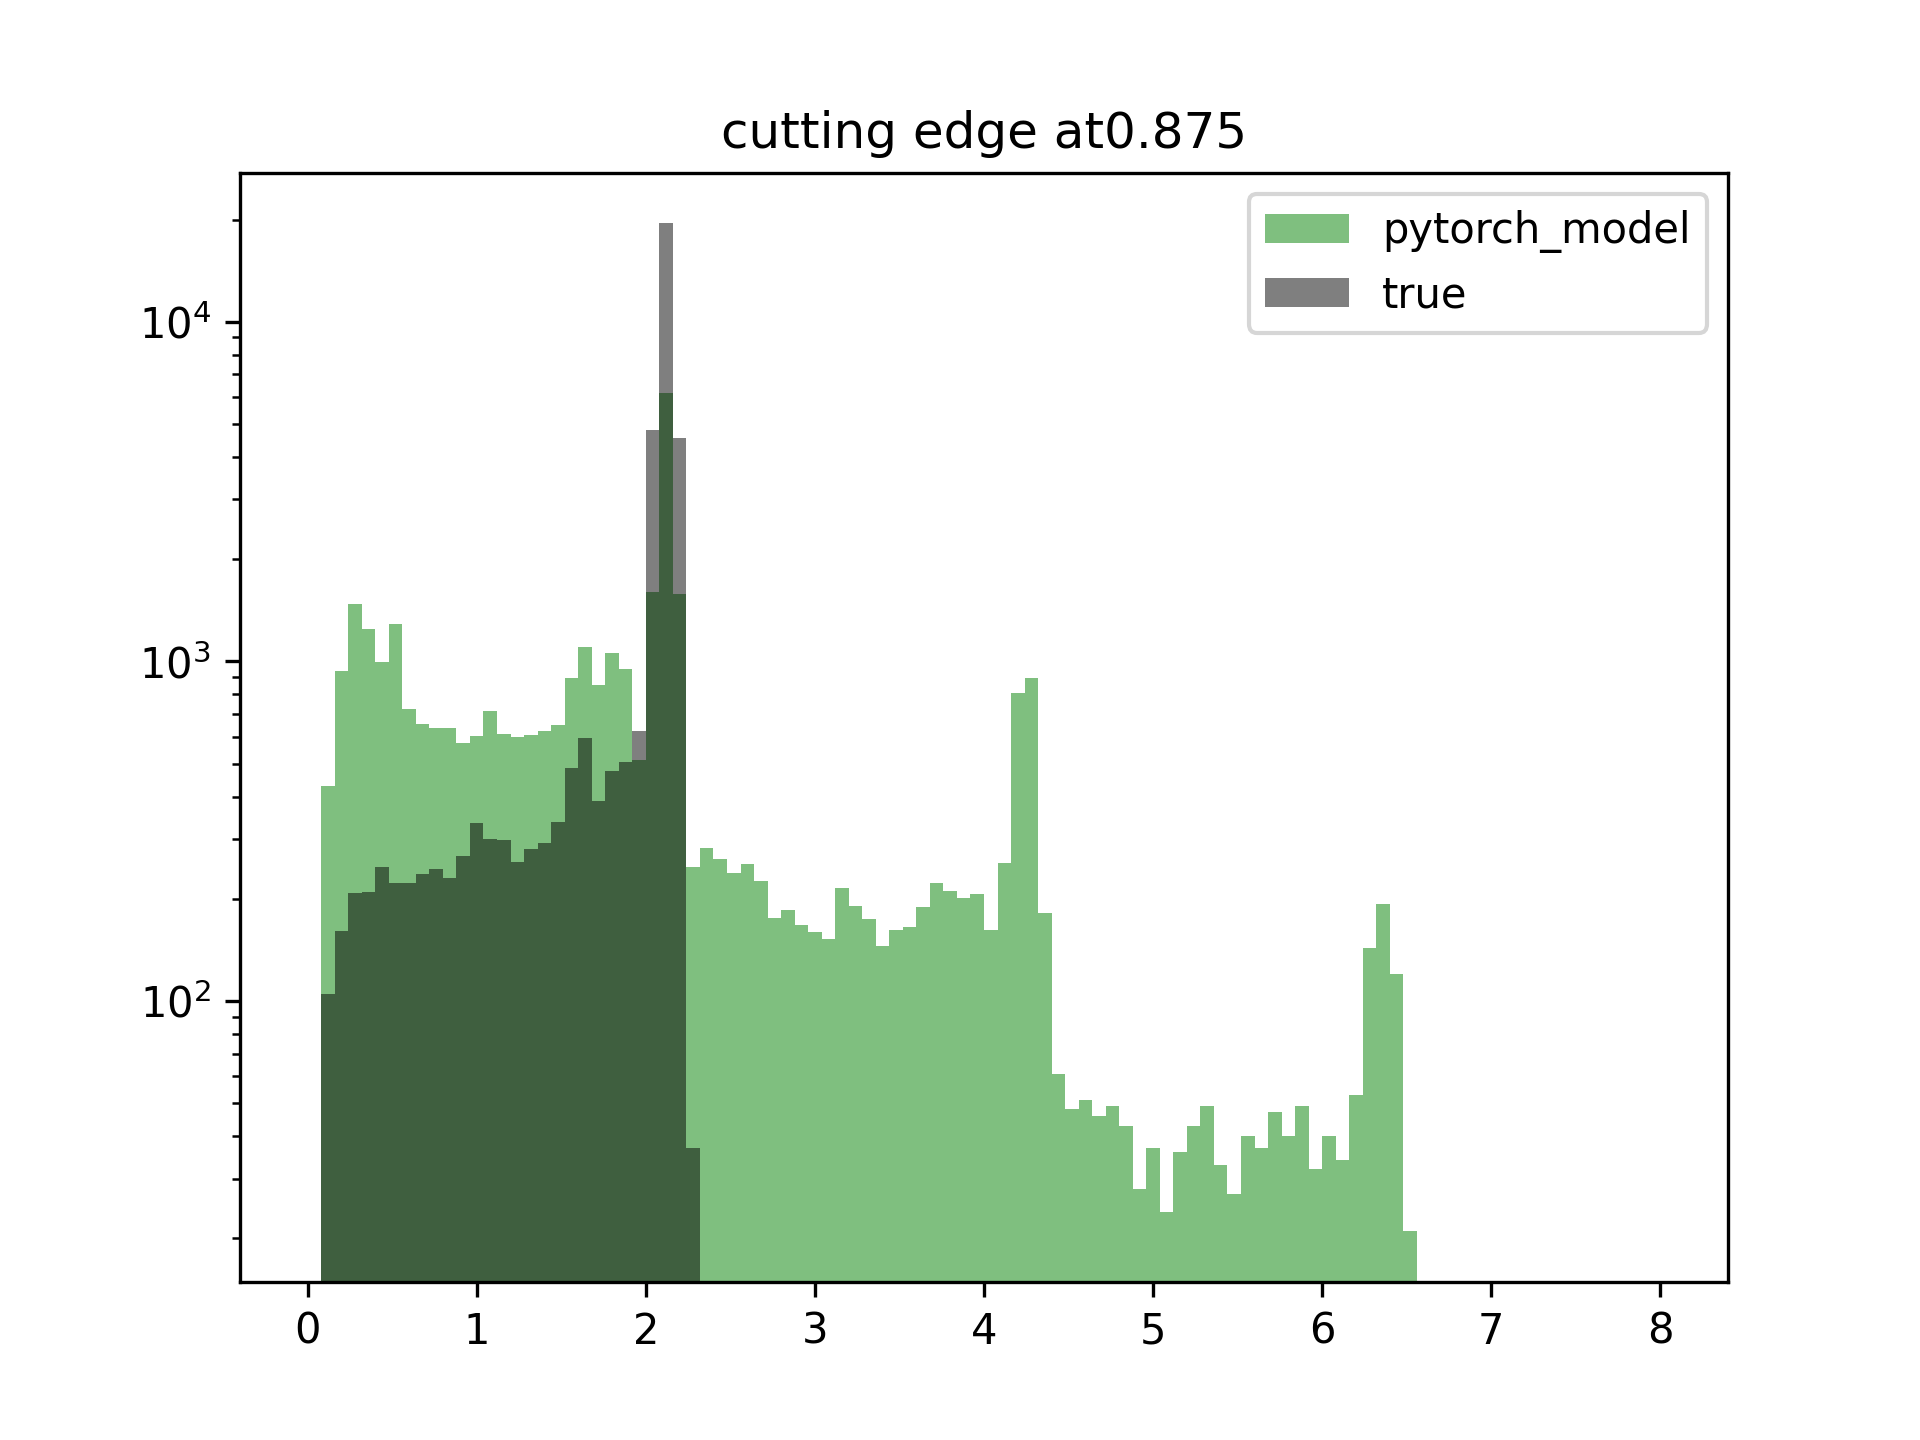
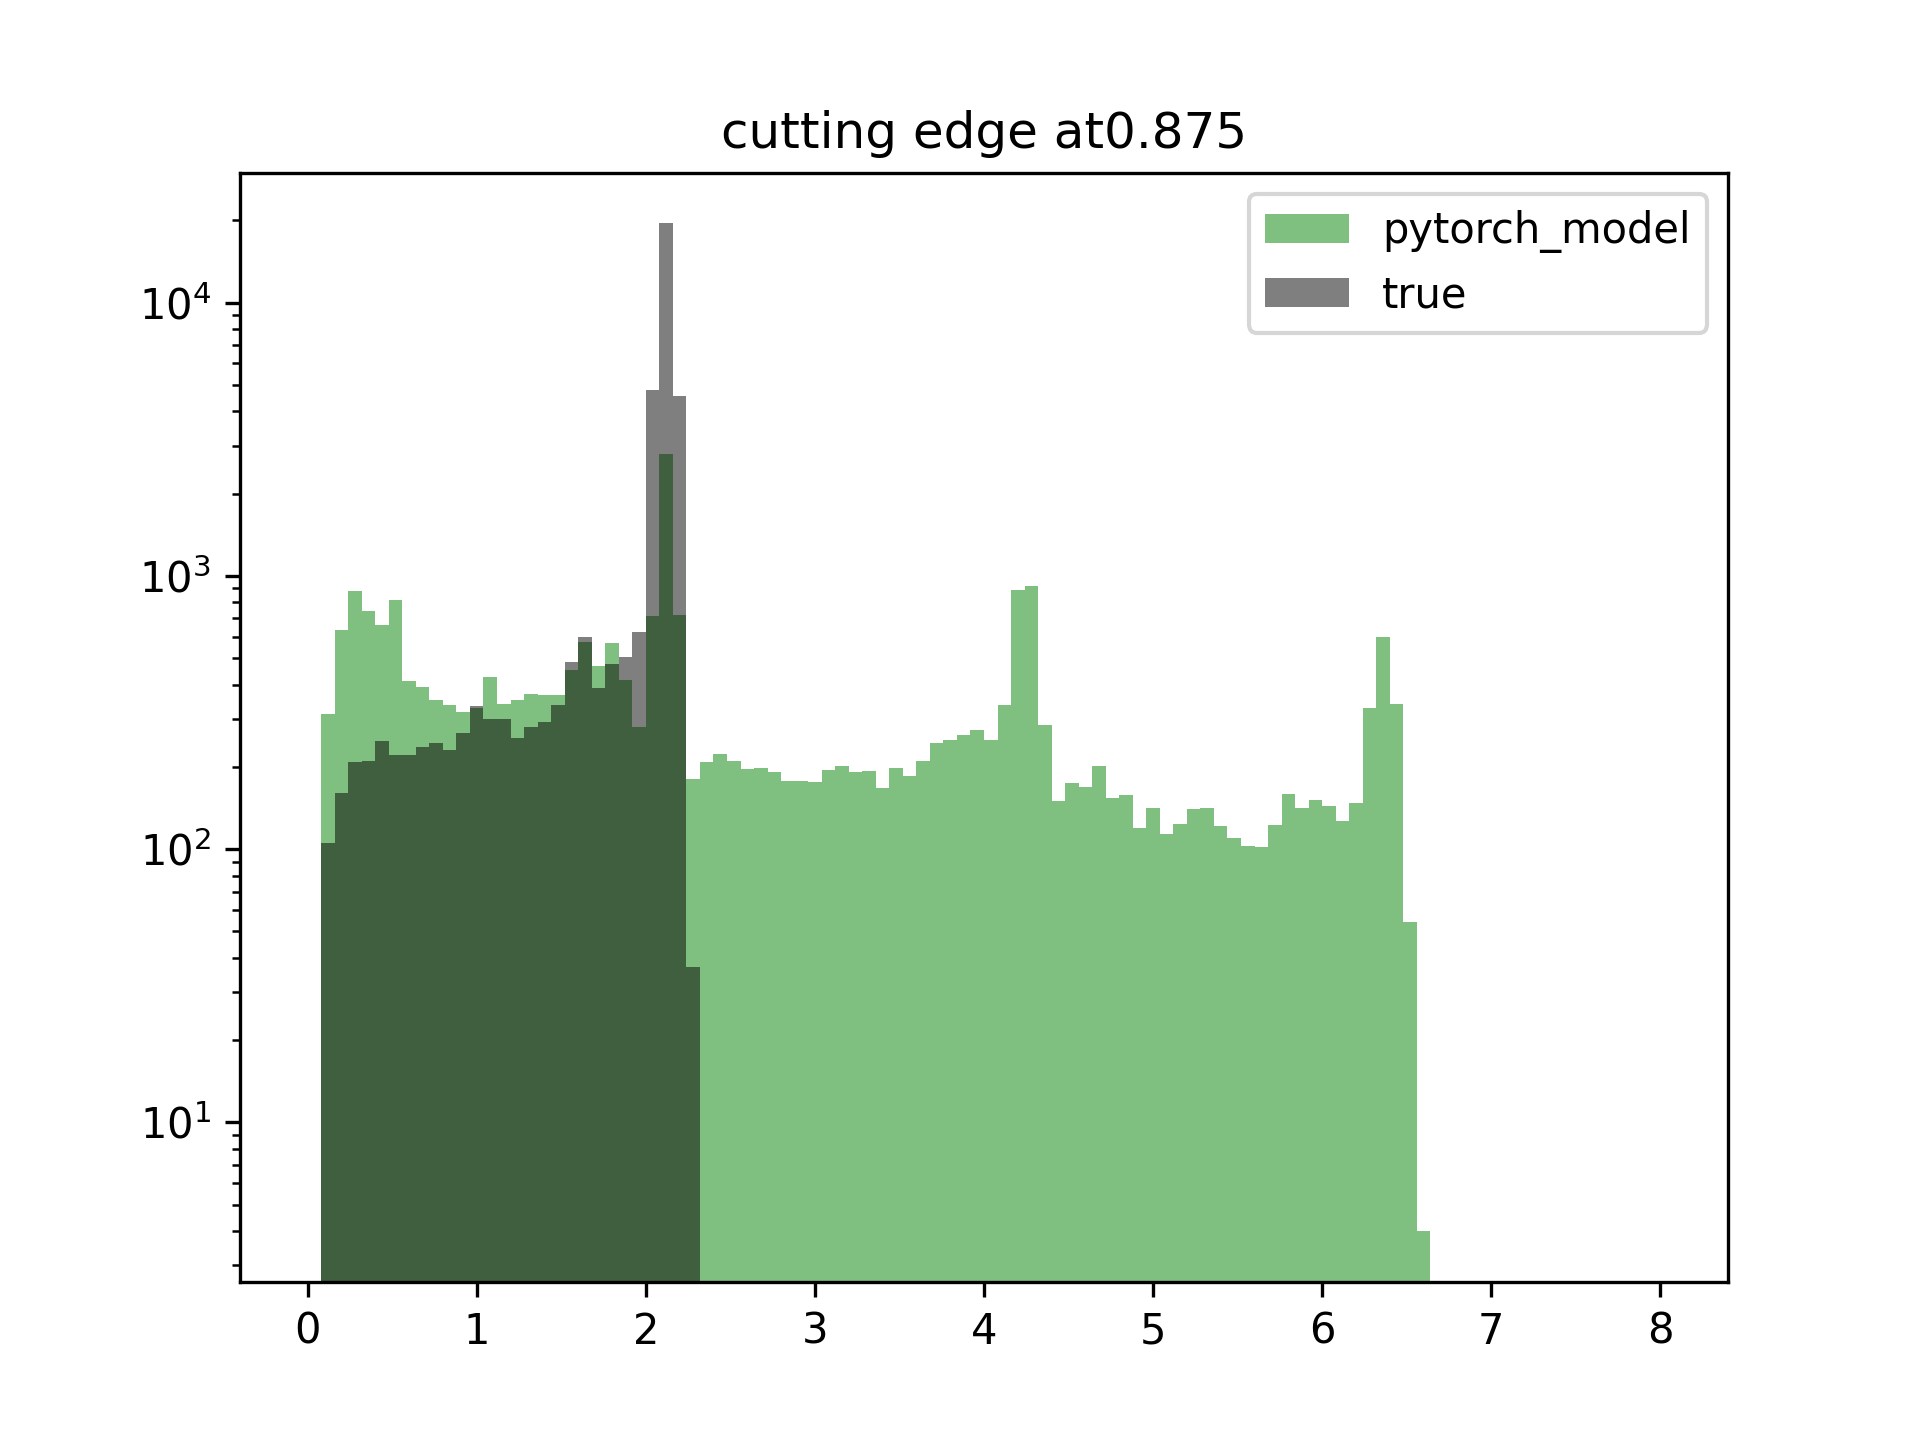
really small changes

diff --git a/data_sorting.py b/data_sorting.py
@@ -63,7 +63,7 @@ bs = 64
 dataset = CustomDataset()
 dloader = DataLoader(dataset,batch_size=bs,shuffle=False,collate_fn=dynamic_length_collate)
 #epoch-iteration infos ----
-n_epochs = 10
+n_epochs = 1
 total_samples = len(dataset)
 n_iterations = math.ceil(total_samples/bs)
 print (total_samples,n_iterations)
@@ -144,7 +144,7 @@ import itertools
 #here I evaluate the model
 if (model == "homemade" or model == "pytorch_model"):
 	transformer_model.eval()
-for cut in range(500,975,25):
+for cut in range(500,1000,25):
 #for cut in range(500,501):
 	cut = cut/1000.
 	reco_list = []
